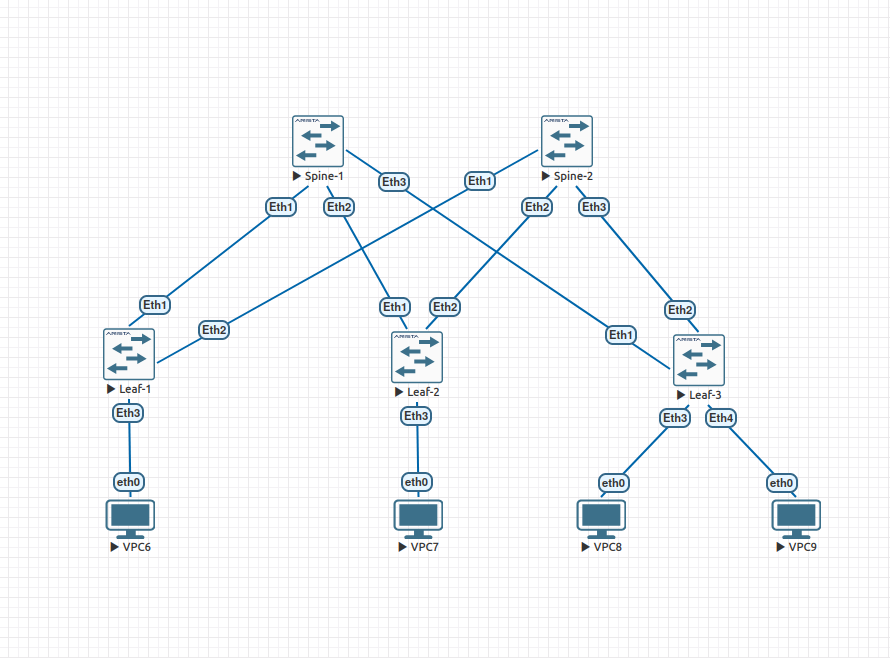
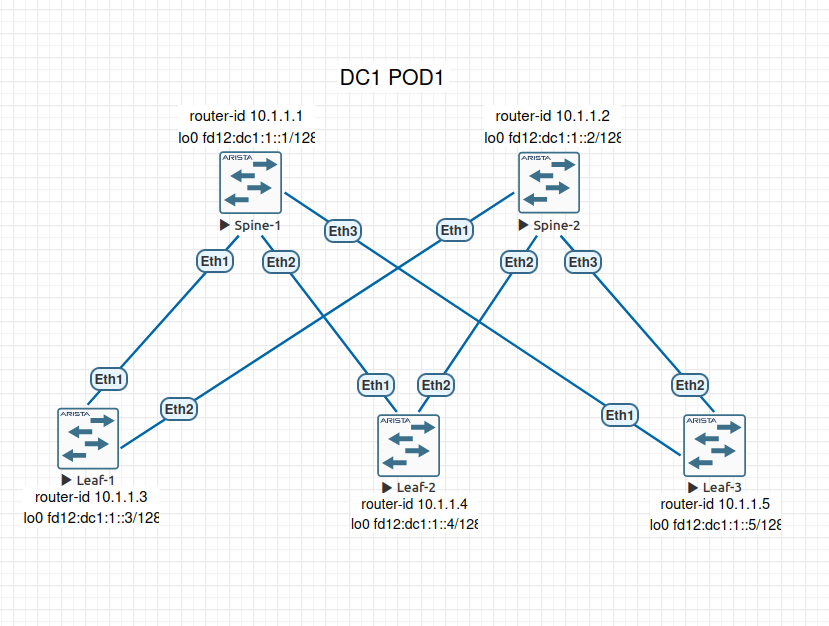
Modify README.md and add some pictures

diff --git a/hometasks/dc-ht-2/README.md b/hometasks/dc-ht-2/README.md
@@ -2,7 +2,7 @@
 ## Проектирование адресного пространства
 
 ### Цель:
-Настроить OSPF для Underlay сети.сети
+Настроить OSPF для Underlay сети.
 
 ### План работ
 1. Собрать схему Clos;
@@ -39,111 +39,80 @@ Leaf3|fd12:dc1:1::5/128|10.1.1.5
 
 где: loopback 0 3-ий и 4-ый октеты - Порядковый номер ЦОДа - dc1;
      loopback 0 6-ой октет - Порядковый номер POD - 1;
-     loopback 0 16-ой октет - Порядковый номер устройства в POD - 1;
-     router-id 2-ой октет - Порядковый номер ЦОДа - 1;
-     router-id 3-ой октет - Порядковый номер POD - 1;
+     loopback 0 16-ой октет Порядковый номер устройства в POD;
+     router-id 2-ой октет Порядковый номер ЦОДа - 1;
+     router-id 3-ой октет Порядковый номер POD - 1;
      router-id 4-ой октет - Порядковый номер устройства в POD.
 
-### Настройка OSPF
+Примечание: Для краткости не будем приводить здесь команды назначения IPv6 адресов на интерфейсы loopback 0 каждого коммутатора. Они показаны в листингах конфигураций оборудования.
+
+### Настройка OSPF и включение BFD
 
 На самом верхнем уровне топологии Clos PODы объединяются коммутаторами Super-Spine, которые работают в backbone area (0) OSPF.
 
-Spine и Leaf-коммутаторы самого PODа мы поместим в area 1 и присвоим ей тип stub.
+А вот Spine и Leaf-коммутаторы самого PODа мы поместим в area 1 и присвоим ей тип stub.
 
-На примере коммутатора Spine1 покажем как выполнялась конфигурация:
+На примере коммутатора Spine1 покажем как выполнялась конфигурация коммутаторов в POD:
 
-- включаем на всех коммутаторах маршрутизацию IPv6:
+- включаем на коммутаторе маршрутизацию IPv6:
 ```
-ipv6 unicast-routing vrf default
+Spine1(config)ipv6 unicast-routing vrf default
 ```
 
-- далее, в vrf default запускаем процесс ospfv3:
+- далее, в vrf default запускаем процесс ospfv3 и присваиваем area 1 тип зоны stub:
 ```
 Spine1(config)#ipv6 router ospf 1 vrf default
-Spine1(config-router-ospf3)#router-id 10.0.0.1
-Spine1(config-router-ospf3)#area 0.0.0.1 stub
-```
-spine-1#show ipv6 interface brief
-Interface  Status    MTU   IPv6 Address                 Addr State  Addr Source
-Et1        up       1500   fe80::5200:ff:fed7:ee0b/64   up          link local
-                           fd12:dc:1:100::1/64          up          config
-Et2        up       1500   fe80::5200:ff:fed7:ee0b/64   up          link local
-                           fd12:dc:1:101::1/64          up          config
-Et3        up       1500   fe80::5200:ff:fed7:ee0b/64   up          link local
-                           fd12:dc:1:102::1/64          up          config
-Lo0        up      65535   fe80::ff:fe00:0/64           up          link local
-                           fd12:dc:1::1/128             up          config
-Lo1        up      65535   fe80::ff:fe00:0/64           up          link local
-                           fd12:dc:2::1/128             up          config
+Spine1(config-router-ospf3)#router-id 10.1.1.1
+Spine1(config-router-ospf3)#area 1 stub
 ```
 
-##### Spine-2:
+- на каждом из физических интерфейсов устанавливаем mtu 9214, включаем IPv6, помещаем их в area 1, указываем тип сети point-to-point, включаем BFD:
 ```
-spine-2#show ipv6 interface brief
-Interface  Status    MTU   IPv6 Address                 Addr State  Addr Source
-Et1        up       1500   fe80::5200:ff:fecb:38c2/64   up          link local
-                           fd12:dc:1:103::1/64          up          config
-Et2        up       1500   fe80::5200:ff:fecb:38c2/64   up          link local
-                           fd12:dc:1:104::1/64          up          config
-Et3        up       1500   fe80::5200:ff:fecb:38c2/64   up          link local
-                           fd12:dc:1:105::1/64          up          config
-Lo0        up      65535   fe80::ff:fe00:0/64           up          link local
-                           fd12:dc:1::2/128             up          config
-Lo1        up      65535   fe80::ff:fe00:0/64           up          link local
-                           fd12:dc:2::2/128             up          config
-```
-
-##### Leaf-1:
-```
-leaf-1#show ipv6 interface brief
-Interface  Status    MTU   IPv6 Address                 Addr State  Addr Source
-Et1        up       1500   fe80::5200:ff:fed5:5dc0/64   up          link local
-                           fd12:dc:1:100::2/64          up          config
-Et2        up       1500   fe80::5200:ff:fed5:5dc0/64   up          link local
-                           fd12:dc:1:103::2/64          up          config
-Lo0        up      65535   fe80::ff:fe00:0/64           up          link local
-                           fd12:dc:1::3/128             up          config
-Lo1        up      65535   fe80::ff:fe00:0/64           up          link local
-                           fd12:dc:1:1::3/128           up          config
+interface Ethernet1
+   mtu 9214
+   ipv6 enable
+   ipv6 ospf network point-to-point
+   ipv6 ospf 1 area 1
+   ipv6 ospf bfd
+interface Ethernet2
+   mtu 9214
+   ipv6 enable
+   ipv6 ospf network point-to-point
+   ipv6 ospf 1 area 1
+   ipv6 ospf bfd
+interface Ethernet3
+   mtu 9214
+   ipv6 enable
+   ipv6 ospf network point-to-point
+   ipv6 ospf 1 area 1
+   ipv6 ospf bfd
 ```
 
-##### Leaf-2
-```
-leaf-2#show ipv6 interface brief
-Interface  Status    MTU   IPv6 Address                 Addr State  Addr Source
-Et1        up       1500   fe80::5200:ff:fe03:3766/64   up          link local
-                           fd12:dc:1:101::2/64          up          config
-Et2        up       1500   fe80::5200:ff:fe03:3766/64   up          link local
-                           fd12:dc:1:104::2/64          up          config
-Lo0        up      65535   fe80::ff:fe00:0/64           up          link local
-                           fd12:dc:1::5/128             up          config
-Lo1        up      65535   fe80::ff:fe00:0/64           up          link local
-                           fd12:dc:1:1::5/128           up          config
-```
+### Проверка результатов работы
 
-##### Leaf-3
-```
-leaf-3#show ipv6 interface brief
-Interface  Status    MTU   IPv6 Address                 Addr State  Addr Source
-Et1        up       1500   fe80::5200:ff:fe15:f4e8/64   up          link local
-                           fd12:dc:1:102::2/64          up          config
-Et2        up       1500   fe80::5200:ff:fe15:f4e8/64   up          link local
-                           fd12:dc:1:105::2/64          up          config
-Lo0        up      65535   fe80::ff:fe00:0/64           up          link local
-                           fd12:dc:1::4/128             up          config
-Lo1        up      65535   fe80::ff:fe00:0/64           up          link local
-                           fd12:dc:1:1::4/128           up          config
-```
+- В начале убедимся, что у нас построилось OSPF-соседство между Spine- и Leaf-коммутаторами:
+
+!(https://github.com/Gord-Gord/dc-network-design/blob/main/hometasks/dc-ht-2/spines_ospf_neighbors.png)
+!(https://github.com/Gord-Gord/dc-network-design/blob/main/hometasks/dc-ht-2/leaves_ospf_neighbors.png)
+
+- Далее посмотрим какие маршруты получены по OSPF и внесены в таблицу маршрутизации:
+!(https://github.com/Gord-Gord/dc-network-design/blob/main/hometasks/dc-ht-2/spines_ospf_routes.png)
+!(https://github.com/Gord-Gord/dc-network-design/blob/main/hometasks/dc-ht-2/leaves_ospf_routes.png)
+
+- Убедимся в установлении соседства bfd:
+!(https://github.com/Gord-Gord/dc-network-design/blob/main/hometasks/dc-ht-2/spines_bfd_peers.png)
+!(https://github.com/Gord-Gord/dc-network-design/blob/main/hometasks/dc-ht-2/leaves_bfd_peers.png)
+
+- Проверим сетевую связность между интерфейсами loopback 0 разных коммутаторов:
+-- Spine-коммутаторы пингуют loopback 0 Leaf-коммутаторов, при этом в качестве исходящего интерфейса обязательно указываем loopback 0 Spine-коммутатора:
+!(https://github.com/Gord-Gord/dc-network-design/blob/main/hometasks/dc-ht-2/spines_ping_leaves.png)
+-- Leaf-коммутаторы пингуют loopback 0 Spine-коммутаторов, при этом в качестве исходящего интерфейса обязательно указываем loopback 0 Leaf-коммутатора:
+!(https://github.com/Gord-Gord/dc-network-design/blob/main/hometasks/dc-ht-2/leaves_ping_spines.png)
+
+
 
 #### Скриншоты
 
-##### Spine-коммутаторы пингуют Leaf-коммутаторы
-
-![alt-текст]( --- )
-
-##### Leaf-коммутаторы пингуют Spine-коммутаторы
-
-![alt-текст]( --- )
 
 #### Листинги
 
@@ -153,7 +122,7 @@ hostname spine-1
 !
 spanning-tree mode mstp
 !
-interface Ethernet1
+peersinterface Ethernet1
    no switchport
    ipv6 enable
    ipv6 address fd12:dc:1:100::1/64
